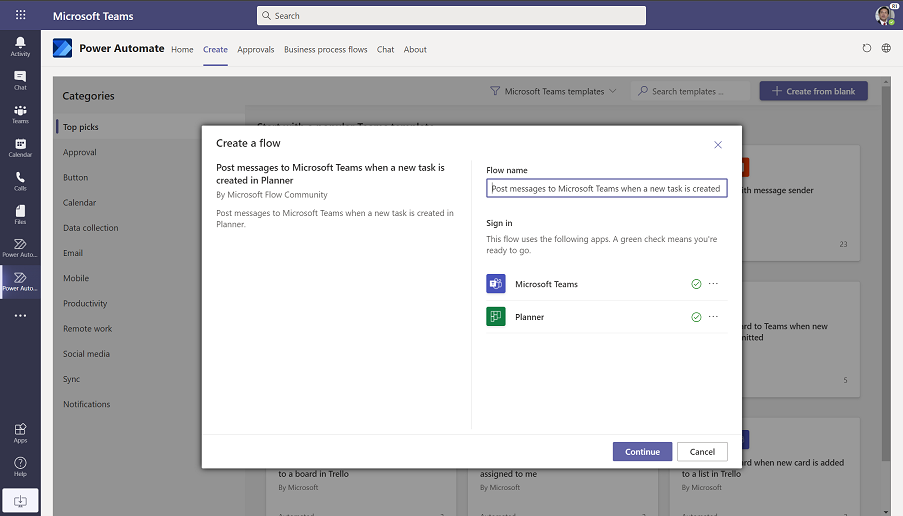
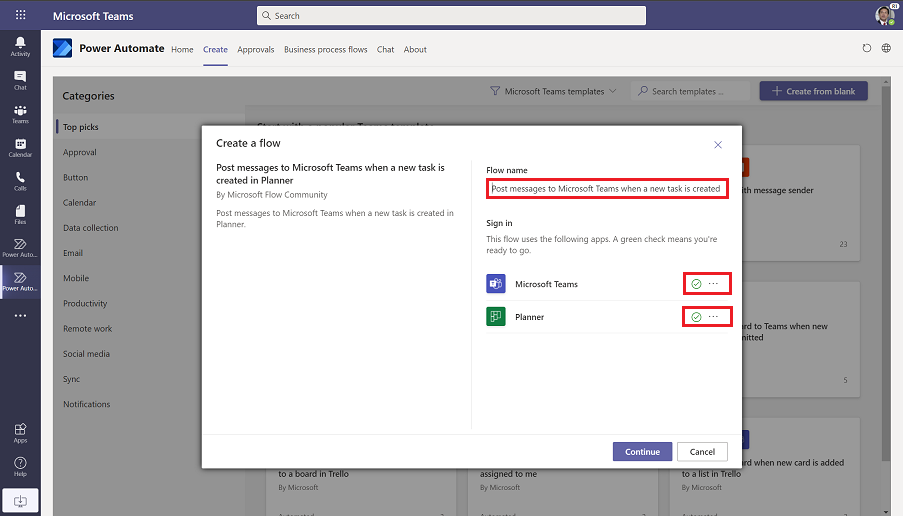
Updates to the mange flows doc

Changed region(s): [[0.5271, 0.3411, 0.8062, 0.4031], [0.7442, 0.5271, 0.8372, 0.6512]]

diff --git a/articles/teams/power-automate-teams-app-home.md b/articles/teams/power-automate-teams-app-home.md
@@ -1,5 +1,5 @@
 ---
-title: Manage your flows in Teams | Microsoft Docs
+title: Manage your flows in Microsoft Teams | Microsoft Docs
 description: Learn how to manage flows using the Power Automate app in Microsoft Teams
 services: ''
 suite: flow
@@ -13,37 +13,42 @@ ms.devlang: na
 ms.topic: article
 ms.tgt_pltfrm: na
 ms.workload: na
-ms.date: 11/12/2020
+ms.date: 11/16/2020
 ms.author: hamenon
 ---
 
 # Manage your flows in the Home tab
 
-The Home tab is where you get an overview of the flows you created or are a part of.
+The **Home** provides an overview of your flows from your default environment.
 
->[!NOTE]
->Currently the app only shows flows from your default environment
-
-By default we optimize for the Teams experience and filter to show you flows that use Teams connectors and actions. But you can always change the filter on the top right to see all your flows instead.
+By default the **Home** tab is filtered to display your flows that use Microsoft Teams triggers and actions. You can select **Microsoft Teams flows** to change the filter to display all your flows.
 
 ![Home tab](../media/power-automate-teams-app-create/home-tab.png)
 
-The following 6 columns help provide an overview of your different flows
-1. Flow name: The name that you have provided for the flow
-2. Status: The status of the flow i.e. is it enabled of disabled. You can also toggle flows directly from the list
-3. Owners: Provides an overview of the different users who own the flow
-4. Type: The type of flow i.e. Automated, Instant, Scheduled
-5. Team and channel: If your flow reads from or writes to any Team or channel that information is provided here so you can get a quick glance of the Teams your flow impacts
+On the **Home** tab, you can view the information that's displayed in each of the following six columns to get an overview of your flows.
 
-You can click on any flow to drill into the details of the flow right within Teams. 
+Column name | Description
+----|----
+ Flow name | Represents the name that you provided for the flow
+ Status | Displays the status of the flow. For example, is the flow enabled or disabled? You can change the status of your flows directly from this list.
+ Modified | Displays the amount of time that's passed since the flow was last changed.
+ Owners | Provides a list of the users who own the flow.
+ Type |Shows the type of flow. Flows can be **Automated**, **Instant**, or **Scheduled**.
+ Team and channel |If your flow reads from or writes to any team or channel, that information is provided here so you can get a quick glance of the teams your flow touches.
+  |
+
+
+>[!TIP]
+>You can select any flow to view more details about it. 
 
 ![Flow details](../media/power-automate-teams-app-create/flow-details.png)
 
 ## Known issues
-The Power Automate App in Teams only shows flows from your tenants default environment. 
+
+The Power Automate app in Microsoft Teams only shows your flows that are located in the default environment. 
 
 ## Related articles
 
-[Create flows in Teams](./power-automate-teams-app-create.md)
+[Create flows in Microsoft Teams](./power-automate-teams-app-create.md).
 
-[Teams connector documentation](https://docs.microsoft.com/connectors/teams/)
+View the [Microsoft Teams connector documentation](https://docs.microsoft.com/connectors/teams/).

diff --git a/articles/teams/power-automate-teams-app-create.md b/articles/teams/power-automate-teams-app-create.md
@@ -52,11 +52,11 @@ Follow these steps to create a flow from a Microsoft Teams template:
    ![Setup connections](../media/power-automate-teams-app-create/template1.png)
 
    >[!NOTE]
-   >You must log into all apps so that your flow can run successfully.
+   >You must log into all apps so that your flow can run successfully. A green check indicates that you've authenticated.
 
 1. Set up the connections as needed.
 
-1. Select **Continue** to get a list of parameters that are necessary for the flow to run successfully.
+1. Select **Continue** to get a list of parameters that are necessary for the flow to run successfully. Provide the parameters that are needed.
    
    ![Setup parameters](../media/power-automate-teams-app-create/template2.png)
 
